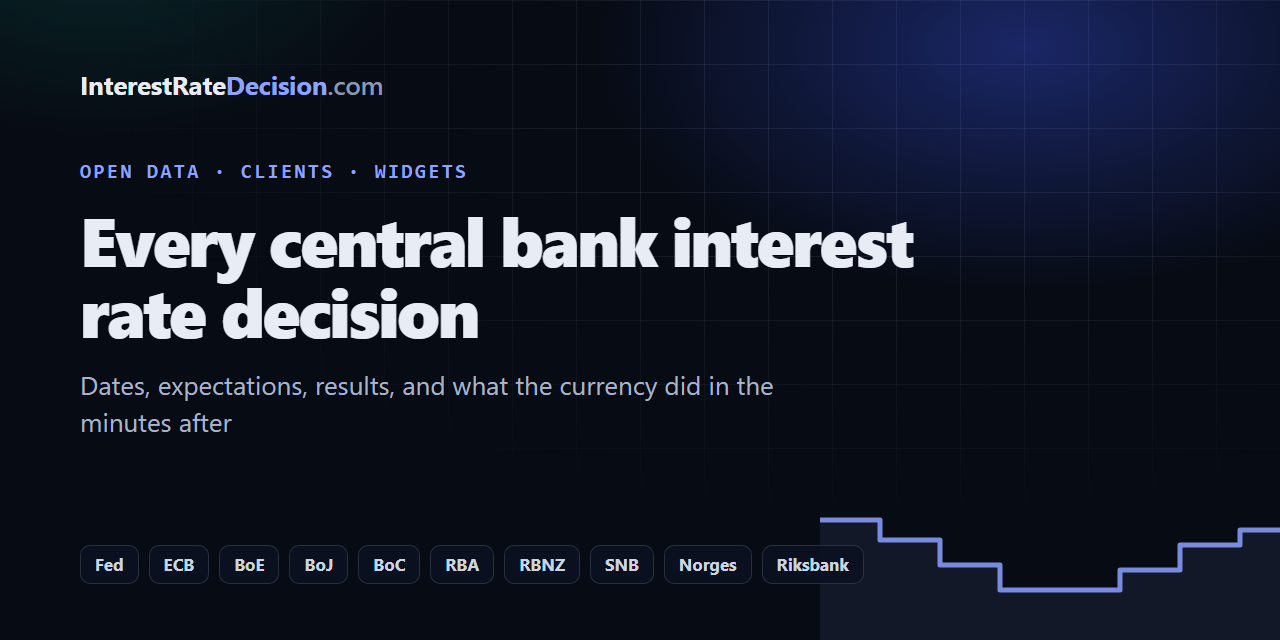
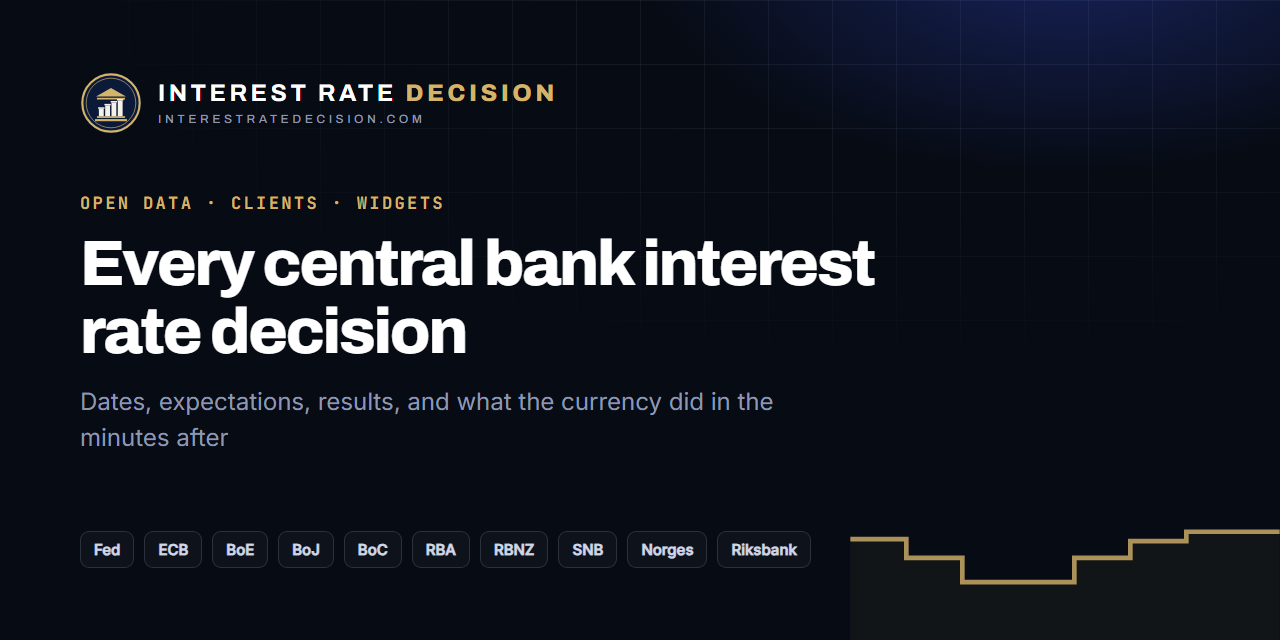
The new mark: the seal

diff --git a/index.html b/index.html
@@ -5,6 +5,8 @@
 <meta name="viewport" content="width=device-width, initial-scale=1">
 <title>InterestRateDecision.com Open Source: Central Bank Data, API and Widgets</title>
 <meta name="description" content="Free central bank interest rate data, a JavaScript and Python API, and website widgets from InterestRateDecision.com: every decision of the Fed, ECB, BoE, BoJ and more since 2008.">
+<link rel="icon" href="https://interestratedecision.com/favicon.svg" type="image/svg+xml">
+<link rel="apple-touch-icon" href="https://interestratedecision.com/apple-touch-icon.png">
 <link rel="canonical" href="https://interest-rate-decision.github.io/">
 <meta property="og:type" content="website">
 <meta property="og:title" content="InterestRateDecision.com: open data, API and widgets">
@@ -25,8 +27,12 @@
   a { color: var(--accent); }
   header { background: var(--ink) radial-gradient(50% 80% at 80% 0%, rgba(61,90,254,.35), transparent 70%); color: #e8ecf4; padding: 56px 24px 64px; }
   .wrap { max-width: 1080px; margin: 0 auto; }
-  .brand { font-weight: 800; color: #e8ecf4; text-decoration: none; }
-  .brand b { color: #8ea2ff; }
+  .brand { display: inline-flex; align-items: center; gap: 12px; color: #fff; text-decoration: none; }
+  .brand svg { width: 42px; height: 42px; flex: none; }
+  .brand span { display: flex; flex-direction: column; line-height: 1; }
+  .brand em { font: 700 15px/1 system-ui, -apple-system, 'Segoe UI', sans-serif; font-style: normal; letter-spacing: .15em; text-transform: uppercase; }
+  .brand b { color: #d4b36a; }
+  .brand small { font: 500 9px/1 system-ui, sans-serif; letter-spacing: .3em; text-transform: uppercase; color: #8d98b0; margin-top: 6px; }
   h1 { font-size: clamp(32px, 5vw, 52px); line-height: 1.06; letter-spacing: -.03em; margin: 28px 0 14px; }
   .lead { font-size: 19px; color: #aab4c8; max-width: 760px; margin: 0; }
   main { padding: 48px 24px; }
@@ -44,7 +50,7 @@
 </head>
 <body>
 <header><div class="wrap">
-  <a class="brand" href="https://interestratedecision.com/">InterestRate<b>Decision</b>.com</a>
+  <a class="brand" href="https://interestratedecision.com/" aria-label="InterestRateDecision.com"><svg aria-hidden="true" xmlns="http://www.w3.org/2000/svg" viewBox="0 0 64 64"><circle cx="32" cy="32" r="31" fill="#0c1a3a"/><g fill="none" stroke="#d4b36a"><circle cx="32" cy="32" r="29.6" stroke-width="2.2"/><circle cx="32" cy="32" r="25.6" stroke-width=".9" stroke-opacity=".75"/></g><g fill="#d4b36a"><path d="M16.5 25.2 32 16.4 47.5 25.2Z"/><rect x="17.5" y="26.6" width="29" height="1.8"/><rect x="17.5" y="45.6" width="29" height="1.8"/><rect x="15.5" y="48.6" width="33" height="2.2"/></g><g fill="#f4f1e8"><rect x="18.7" y="36.4" width="6.6" height="1.6"/><rect x="19.5" y="38" width="5" height="7.6"/><rect x="25.2" y="32.9" width="6.6" height="1.6"/><rect x="26" y="34.5" width="5" height="11.1"/><rect x="31.7" y="29.9" width="6.6" height="1.6"/><rect x="32.5" y="31.5" width="5" height="14.1"/><rect x="38.2" y="27.9" width="6.6" height="1.6"/><rect x="39" y="29.5" width="5" height="16.1"/></g></svg><span><em>Interest Rate <b>Decision</b></em><small>interestratedecision.com</small></span></a>
   <h1>Central bank interest rate data, API and widgets</h1>
   <p class="lead">Every interest rate decision of the Federal Reserve, ECB, Bank of England, Bank of Japan, Bank of Canada, RBA, RBNZ, SNB, Norges Bank and Riksbank since 2008. Free as a dataset, as code and as widgets for any website.</p>
 </div></header>
